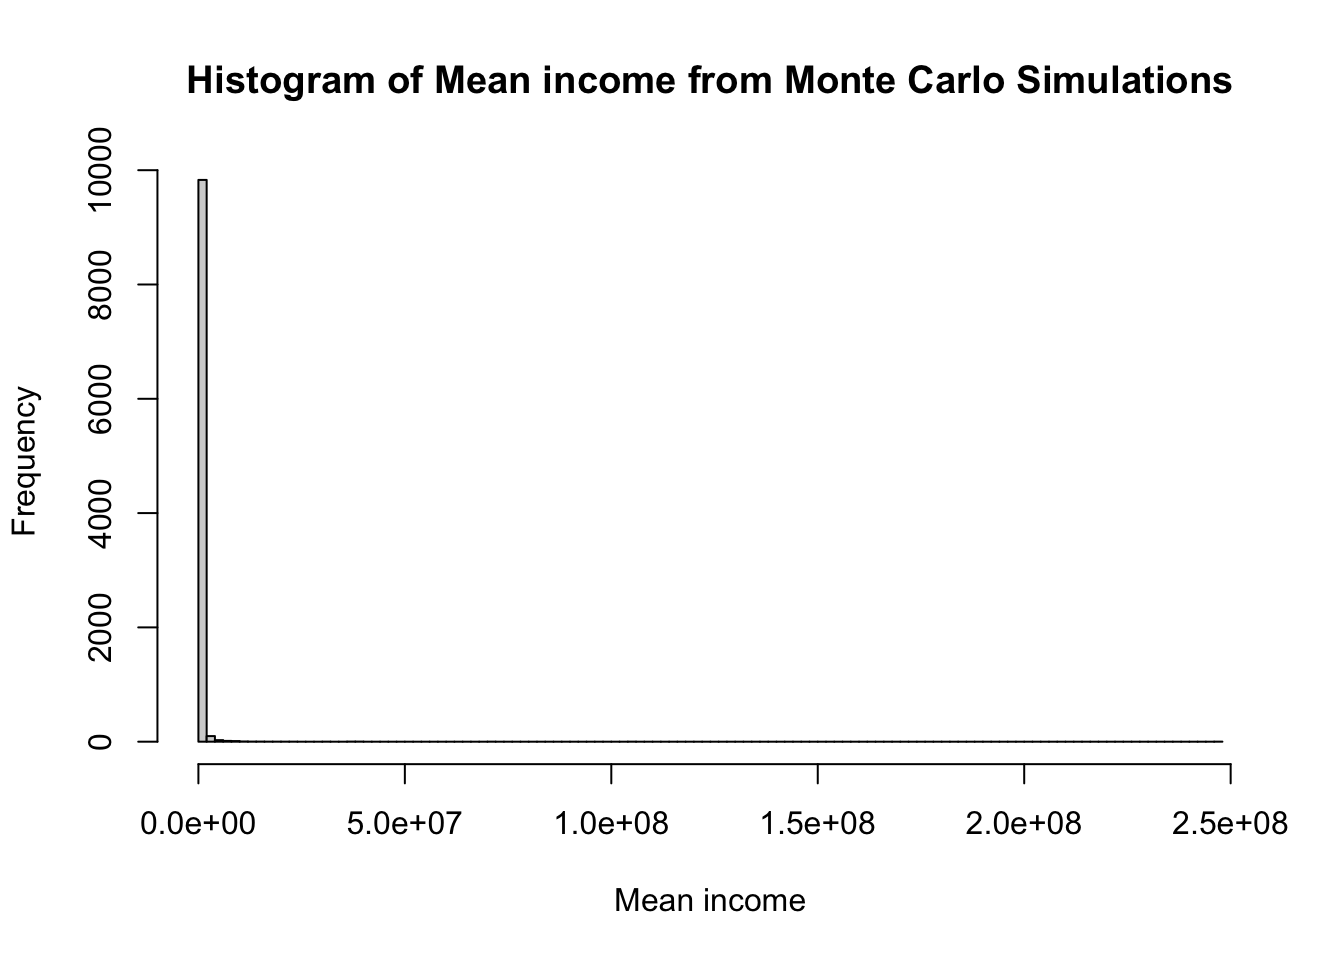
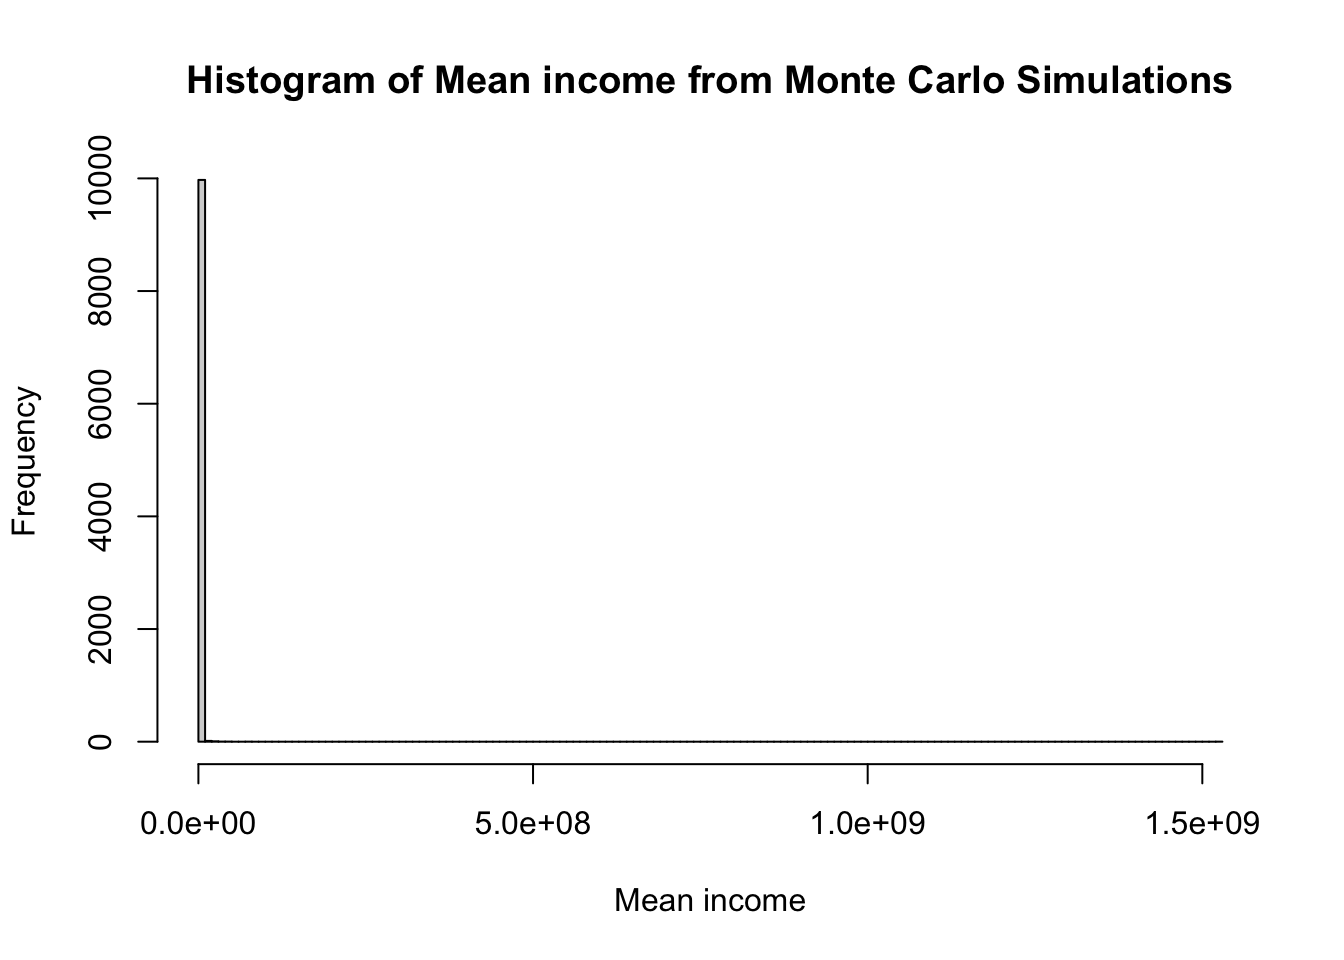
5241024

diff --git a/docs/Revision notes/Basic science/Bone.html b/docs/Revision notes/Basic science/Bone.html
@@ -1225,7 +1225,8 @@ cookieconsent.run({
 </header>
 
 
-<p>Here, you will have unlimited access to <strong>high-quality content encompassing the entirety of Orthopaedics</strong>, covering all the knowledge you could ever need. Most importantly, <strong>this resource is guaranteed to remain free forever</strong>. You will have the opportunity to learn at your own pace on clinically relevant and timely topics, while consistently experiencing palpable enhancement in your knowledge. This platform offers a unique learning experience that drives continuous improvement in quality practice every day.</p>
+<p>Here, you will have unlimited access to <strong>high-quality content covering all aspects of orthopaedics</strong>, providing you with the knowledge you need to successfully pass any orthopaedic examination and establish a strong foundation for your surgical practice.</p>
+<p>Most importantly, <strong>this resource is guaranteed to remain free forever</strong>. You will have the opportunity to learn at your own pace on clinically relevant and timely topics, while consistently experiencing palpable enhancement in your knowledge.</p>
 <p>The content is organized into five main sections, each divided into various subcategories that function as individual lessons. The goal is that, by completing the entire course, your knowledge will be thorough enough to pass the first part of the fellowship examination.</p>
 <p><strong>This is a continuous project and will expand over time</strong>. Eventually, each lesson will include hand drawn diagrams, a video lecture, and additional related materials.</p>
 

diff --git a/docs/Revision notes/Basic science/Prosthetics & Orthotics/Prosthetics.html b/docs/Revision notes/Basic science/Prosthetics & Orthotics/Prosthetics.html
@@ -1351,10 +1351,10 @@ cookieconsent.run({
 <h3 class="anchored" data-anchor-id="optimal-levels-of-common-amputations">Optimal Levels of Common Amputations</h3>
 <table class="caption-top table">
 <colgroup>
-<col style="width: 22%">
-<col style="width: 23%">
-<col style="width: 22%">
-<col style="width: 31%">
+<col style="width: 25%">
+<col style="width: 25%">
+<col style="width: 25%">
+<col style="width: 25%">
 </colgroup>
 <thead>
 <tr class="header">
@@ -1442,8 +1442,8 @@ cookieconsent.run({
 <h3 class="anchored" data-anchor-id="common-elements-of-prostheses">Common Elements of Prostheses</h3>
 <table class="caption-top table">
 <colgroup>
-<col style="width: 23%">
-<col style="width: 76%">
+<col style="width: 50%">
+<col style="width: 50%">
 </colgroup>
 <thead>
 <tr class="header">
@@ -1553,8 +1553,8 @@ cookieconsent.run({
 <h3 class="anchored" data-anchor-id="types-of-knee-articulation">Types of Knee Articulation</h3>
 <table class="caption-top table">
 <colgroup>
-<col style="width: 22%">
-<col style="width: 77%">
+<col style="width: 50%">
+<col style="width: 50%">
 </colgroup>
 <thead>
 <tr class="header">
@@ -1722,8 +1722,8 @@ cookieconsent.run({
 <h3 class="anchored" data-anchor-id="transfemoral-prosthetic-gait-abnormalities">Transfemoral Prosthetic Gait Abnormalities</h3>
 <table class="caption-top table">
 <colgroup>
-<col style="width: 34%">
-<col style="width: 65%">
+<col style="width: 40%">
+<col style="width: 59%">
 </colgroup>
 <thead>
 <tr class="header">

diff --git a/docs/posts/montecarlo.html b/docs/posts/montecarlo.html
@@ -1444,7 +1444,7 @@ Income distribution is not normal
 </details>
 <div class="cell-output cell-output-stdout">
 <pre><code>     Min.   1st Qu.    Median      Mean   3rd Qu.      Max. 
-   214407    295234    342721    537233    435286 247085545 </code></pre>
+2.095e+05 2.967e+05 3.436e+05 6.714e+05 4.383e+05 1.522e+09 </code></pre>
 </div>
 <details open="" class="code-fold">
 <summary>Code</summary>
@@ -1452,7 +1452,7 @@ Income distribution is not normal
 </details>
 <div class="cell-output cell-output-stdout">
 <pre><code>   Min. 1st Qu.  Median    Mean 3rd Qu.    Max. 
-  62144   64066   64505   64511   64935   66955 </code></pre>
+  62052   64088   64515   64516   64947   66902 </code></pre>
 </div>
 <details open="" class="code-fold">
 <summary>Code</summary>
@@ -1460,7 +1460,7 @@ Income distribution is not normal
 </details>
 <div class="cell-output cell-output-stdout">
 <pre><code>     Min.   1st Qu.    Median      Mean   3rd Qu.      Max. 
-9.709e+05 3.289e+06 5.602e+06 2.428e+07 1.157e+07 2.465e+10 </code></pre>
+9.370e+05 3.336e+06 5.688e+06 3.770e+07 1.186e+07 1.522e+11 </code></pre>
 </div>
 </div>
 </section>

diff --git a/docs/Revision notes/Diagrams/diagrams.html b/docs/Revision notes/Diagrams/diagrams.html
@@ -1733,7 +1733,7 @@ window.document.addEventListener("DOMContentLoaded", function (event) {
 </div>
   </div>
 </footer>
-<script>var lightboxQuarto = GLightbox({"selector":".lightbox","openEffect":"zoom","closeEffect":"zoom","loop":false,"descPosition":"bottom"});
+<script>var lightboxQuarto = GLightbox({"descPosition":"bottom","openEffect":"zoom","loop":false,"closeEffect":"zoom","selector":".lightbox"});
 (function() {
   let previousOnload = window.onload;
   window.onload = () => {

diff --git a/docs/Biomedical/Research Methodology/wrangling.html b/docs/Biomedical/Research Methodology/wrangling.html
@@ -2743,7 +2743,7 @@ Record
 2:     2     1  child
 3:     3     0  child
 4:     4     1  child
-5:     5     0  child
+5:     5     1  child
 6:     6     1  child</code></pre>
 </div>
 </div>
@@ -2766,7 +2766,7 @@ Record
 2:     2   &lt;NA&gt;  child
 3:     3  child   &lt;NA&gt;
 4:     4   &lt;NA&gt;  child
-5:     5  child   &lt;NA&gt;
+5:     5   &lt;NA&gt;  child
 6:     6   &lt;NA&gt;  child</code></pre>
 </div>
 </div>
